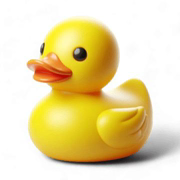
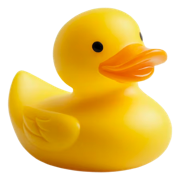
Update portfolio metadata and case copy

diff --git a/src/views/project-detail.tsx b/src/views/project-detail.tsx
@@ -1189,8 +1189,8 @@ export default function ProjectDetail() {
                               : "2GO is a deals platform for restaurants and cafes in Uzbekistan. As the only designer on the team, working closely with the product manager, I designed three products from scratch in two months: a mobile app for users, a B2B dashboard for restaurants, and an admin panel for moderation. One promo-code flow runs through all three interfaces: the user gets a code, the waiter redeems it at the cashier, the restaurant sees the stats, and the admin moderates the platform. There are no direct analogs on the market."
                             : project.id === 7
                             ? language === "ru"
-                              ? "Количественное UX-исследование главной страницы крупного travel-сервиса в рамках редизайна. ~200 участников, 5+ сценариев, сравнение мобайл/десктоп. Выявила критические проблемы с длиной страницы, навигацией и идентификацией бренда. Сформировала приоритизированный бэклог из 20+ рекомендаций."
-                              : "Quantitative UX research for the homepage of a major travel service as part of a redesign. Around 200 participants, 5+ scenarios, and a mobile vs desktop comparison. I identified critical issues with page length, navigation, and brand recognition, then built a prioritized backlog of 20+ recommendations."
+                              ? "Немодерируемое UX-исследование главной страницы крупного travel-сервиса в рамках редизайна: около 200 участников, 5-second и first-click тесты, сценарии, анкетирование. Сравнила мобильную версию и десктоп, выявила, где пользователи теряют фокус, как считывают бренд и какие блоки перегружают страницу, а затем собрала приоритизированный список рекомендаций для команды."
+                              : "Unmoderated UX research for the homepage of a major travel service as part of a redesign: around 200 participants, 5-second and first-click tests, and a mobile vs desktop comparison. I identified where users lose focus, how they read the brand, and which blocks overload the page, then turned that into a prioritized recommendation list for the team."
                             : (language === "ru"
                               ? "xSwap — AMM dApp на CrossFi. За 1 месяц собрала UX/UI для Swap, Pools, Token Sale и Lock/Voting, координировала фронт, работала в связке с solidity. Сделала интерфейс, который не пугает: slippage и прозрачный Route в swap, понятные liquidity-пулы с multi-step подсказками, Token Sale с Profit Estimator и видеогайдами, плюс сложный Lock/Voting — с продуманными корнер-кейсами и состояниями транзакций."
                               : "xSwap is an AMM dApp on CrossFi. In one month, I put together the UX/UI for Swap, Pools, Token Sale, and Lock/Voting, coordinated with frontend, and worked closely with Solidity. The result is an interface that does not scare people off: slippage and a transparent Route in Swap, understandable liquidity pools with multi-step guidance, Token Sale with a Profit Estimator and video guides, plus a complex Lock/Voting flow with well-thought-out edge cases and transaction states.")
@@ -1287,7 +1287,7 @@ export default function ProjectDetail() {
                       {language === "ru" ? (
                         <>
                           <p>Проектирование начала с брифа коллег и заказчика, после выбрала форматы: 5-second test для оценки узнаваемости бренда, first-click test для проверки находимости ключевых блоков, сценарии воспроизводили реальные пользовательские задачи + анкетирование для контекста. Подобрала аудиторию, близкую к целевым пользователям сервиса, с релевантным опытом в travel-категории (гад блесс точечные настройки аудитории в PathWay).</p>
-                          <p>Исследование проходило в два этапа. Первый помог увидеть общую картину: как пользователи ориентируются на главной, какие сценарии проходят уверенно, а где начинают теряться. Второй этап был более точечным: я сравнивала мобилку и десктоп и проверяла, как пользователи воспринимают первый экран, навигацию и точки входа в ключевые сценарии.</p>
+                          <p>Исследование проходило в два этапа. Первый помог увидеть общую картину: как пользователи ориентируются на главной, какие сценарии проходят уверенно, а какие уже не очень уверенно. Второй этап был более точечным: я сравнивала мобилку и десктоп и проверяла, как пользователи воспринимают первый экран, навигацию и точки входа в ключевые сценарии.</p>
                           <p>Я анализировала и цифры (скорость, время, оценки), и качественные данные – открытые ответы и записи экранов. Записи экранов изучать трудозатратно, но полезно – так я увидела, например, что ближе к концу страницы пользователи начинают кликать хаотично, лишь бы скорее найти нужный блок.</p>
                         </>
                       ) : (
@@ -1454,6 +1454,15 @@ export default function ProjectDetail() {
                     className="w-full h-auto object-cover"
                   />
                 </div>
+              </div>
+            )}
+
+            {project.id === 14 && project.contextTitle && project.contextText && (
+              <div className="max-w-[calc(56rem-80px)] mb-12">
+                <h2 className="text-2xl font-medium mb-6">{project.contextTitle}</h2>
+                <p className="text-lg text-gray-600 leading-relaxed whitespace-pre-line">
+                  {project.contextText}
+                </p>
               </div>
             )}
 
@@ -1654,7 +1663,7 @@ export default function ProjectDetail() {
                       {language === "ru" ? "Вот такой" : "Here is the"}
                     </a>{" "}
                     {language === "ru"
-                      ? "маркетинговый сайт получился. Я сделала его с нуля и масштабировала (сейчас делаем уже третью версию – компания растет!). Придумала как визуализировать абстрактные кросс-чейн процессы и объяснить аудитории сложную логику продуктов. Спроектировала интерактивный виджет для страницы Экосистема – единый компонент, который объединяет сотни комбинаций токенов, сетей и роутов в пару кликов."
+                      ? "маркетинговый сайт получился. Я сделала его с нуля и масштабировала (сейчас делаем уже третью версию – компания растет!). Придумала, как визуализировать абстрактные кросс-чейн процессы и объяснить аудитории сложную логику продуктов. Спроектировала интерактивный виджет для страницы Экосистема – единый компонент, который объединяет сотни комбинаций токенов, сетей и роутов в пару кликов."
                       : "marketing site we ended up with. I built it from scratch and scaled it up over time; we are already working on version three because the company keeps growing. I figured out how to visualize abstract cross-chain processes and explain tricky product logic to the audience. I also designed the interactive widget for the Ecosystem page, a single component that brings hundreds of token, chain, and route combinations down to a couple of clicks."}
                   </>
                 </p>
@@ -2288,7 +2297,7 @@ export default function ProjectDetail() {
                 <h2 className="text-2xl font-medium mt-12 mb-6">{language === "ru" ? "Итог" : "Outcome"}</h2>
                 <p className="text-lg text-gray-600 leading-relaxed mb-8">
                   {language === "ru"
-                    ? "Проект запущен в продакшн – это был сложный и интересный кейс: предметная область, которую пришлось изучить с нуля, госзаказчиковый фактор, технические и законодательные ограничения, смена руководства компании прямо посреди процесса разработки. Ниже прикрепила еще макеты, чтобы вы, как и я, не смогли забыть этот проект."
+                    ? "Проект запущен в продакшн – это был сложный и интересный кейс: предметная область, которую пришлось изучить с нуля, госзаказчиковый фактор, технические и законодательные ограничения, смена руководства компании прямо посреди процесса разработки. Сейчас система работает и обслуживает реальный оборот зелёных сертификатов в России. Ниже прикрепила еще макеты, чтобы вы, как и я, не смогли забыть этот проект."
                     : "The project is live in production. It was a complex and genuinely interesting case: a domain I had to learn from scratch, public-sector constraints, technical and legal limitations, and even a leadership change in the company in the middle of development. I also attached extra mockups below so this project stays memorable, for you and for me."
                   }
                 </p>
@@ -2927,7 +2936,7 @@ export default function ProjectDetail() {
                             <div className="flex-shrink-0 w-[calc((100vw-100%)/2)]" />
                           </div>
                         </div>
-                        <p className="text-sm text-gray-400 mt-6 text-center italic">{project.content?.conclusion?.vietnamCaption}</p>
+                        <p className="text-sm text-gray-400 mt-6 text-center italic whitespace-pre-line">{project.content?.conclusion?.vietnamCaption}</p>
                       </div>
                     </div>
                   </div>

diff --git a/src/lib/translations.ts b/src/lib/translations.ts
@@ -158,6 +158,8 @@ export type ProjectTranslation = {
   description: string;
   cardDescription?: string;
   caseDescription?: string;
+  contextTitle?: string;
+  contextText?: string;
   content?: any;
 };
 
@@ -181,7 +183,9 @@ export const projectTranslations: Record<"en" | "ru", ProjectTranslation[]> = {
       title: "Glacis Labs site",
       description: "Corporate website for the Glacis Labs ecosystem. A multi-page site with complex widgets and diagrams showing how the products work.",
       cardDescription: "Corporate website for Glacis Labs. A multi-page site with complex diagrams and widgets.",
-      caseDescription: "Glacis Labs builds Web3 products for developers. It is infrastructure you do not really see: routers, protocols, and liquidity pools working behind every cross-chain operation. Explaining how it all works is hard, but that is exactly the job of both the marketing site and me."
+      caseDescription: "Glacis Labs builds Web3 products for developers. It is infrastructure you do not really see: routers, protocols, and liquidity pools working behind every cross-chain operation. Explaining how it all works is hard, but that is exactly the job of both the marketing site and me.",
+      contextTitle: "A bit more context",
+      contextText: "The site's audience is developers and potential partners who need to quickly understand how everything works and feel motivated to integrate. The site has to work both as a marketing tool and as a technical entry point into the ecosystem."
     },
     {
       id: 2,
@@ -324,7 +328,7 @@ We also shipped a Vietnamese version and launched for the Vietnamese market (and
       category: "DEFI",
       role: "Senior Designer",
       title: "Zero Delta",
-      description: "Presentation of a new Glacis product."
+      description: "Presentation of the new Glacis Labs product."
     },
     {
       id: 12,
@@ -361,7 +365,9 @@ We also shipped a Vietnamese version and launched for the Vietnamese market (and
       title: "Glacis Labs site",
       description: "Корпоративный сайт экосистемы Glacis Labs. Многостраничник со сложными виджетами и схемами работы продуктов.",
       cardDescription: "Корпоративный сайт Glacis Labs. Многостраничник со сложными схемами и виджетами.",
-      caseDescription: "Glacis Labs создают Web3-продукты для разработчиков. Это инфраструктура, которую не видно: роутеры, протоколы, пулы ликвидности работают под капотом каждой кросс-чейн операции. Объяснить как все устроено довольно трудно, но именно в этом моя (и маркетингового сайта) задача."
+      caseDescription: "Glacis Labs создают Web3-продукты для разработчиков. Это инфраструктура, которую не видно: роутеры, протоколы, пулы ликвидности работают под капотом каждой кросс-чейн операции. Объяснить как все устроено довольно трудно, но именно в этом моя (и маркетингового сайта) задача.",
+      contextTitle: "Еще немного контекста",
+      contextText: "Аудитория сайта – разработчики и потенциальные партнёры, которым нужно быстро понять, как всё устроено, и захотеть интегрироваться. Сайт должен работать и как маркетинговый инструмент, и как техническая точка входа в экосистему."
     },
     {
       id: 2,
@@ -421,7 +427,7 @@ Lock + Voting
           title: "Итог",
           text: `За месяц я собрала дизайн продукта, отдала фронту и проконтролировала реализацию. xSwap получился чистым и понятным, с некоторыми наворотами для DeFi-дегенов и многочисленными ориентирами для новичков.
 Мы также реализовали вьетнамскую версию и запустили на вьетнамский рынок (и для нее я отдельно нарисовала дизайн)).`,
-          vietnamCaption: "Вьетнамская версия (зачем она в фигме, спросите вы, – все поедет, давай лучше отрисуем – ответят заказчик и фронты) и некоторые элементы библиотеки"
+          vietnamCaption: "Вьетнамская версия (зачем она в фигме, спросите вы, – все поедет, давай лучше отрисуем – ответят заказчик и фронты)\nи некоторые элементы библиотеки"
         }
       }
     },
@@ -464,6 +470,7 @@ Lock + Voting
       category: "TRAVEL",
       role: "UX Researcher",
       title: "UX-исследование\nдля travel-сервиса",
+      cardDescription: "Немодерируемое UX-исследование на ~200 респондентах в рамках редизайна сайта.",
       description: "UX-исследование главной страницы крупного travel-сервиса. Несколько этапов немодерируемого тестирования, ~200 участников, сравнение мобильной версии сайта и десктопа. Я спроектировала тесты, проанализировала данные и собрала рекомендации для команды, которая работала над редизайном."
     },
     {
@@ -497,7 +504,7 @@ Lock + Voting
       category: "DEFI",
       role: "Senior Designer",
       title: "Zero Delta",
-      description: "Презентация нового продукта Glacis."
+      description: "Презентация нового продукта Glacis Labs."
     },
     {
       id: 12,

diff --git a/src/lib/metadata.ts b/src/lib/metadata.ts
@@ -5,7 +5,7 @@ import zeroDeltaImg from "@/assets/zero_delta_main.webp";
 import xSwapImg from "@/assets/xswap_main.webp";
 import skiziCoverImg from "@/assets/skizi_cover_new.webp";
 import twoGoCoverImg from "@/assets/2go_cover.webp";
-import uxResearchImg from "@/assets/ux_research_cover.webp";
+import uxResearchImg from "@/assets/UXResearch_cover.jpg";
 import dickbuttsImg from "@/assets/dickbutts_cover_v2.webp";
 import zeroDeltaCoverImg from "@/assets/zero_delta_cover.webp";
 import zoodaoCoverImg from "@/assets/zoodao_cover_v3.webp";
@@ -44,8 +44,8 @@ function resolveSiteUrl() {
 
   if (process.env.NODE_ENV === "development") return "http://localhost:3000";
 
-  // Avoid protected Vercel deployment URLs in OG tags; use public production alias.
-  const raw = "https://portfolio-green-mu-48.vercel.app";
+  // Avoid deployment URLs in OG tags; use the public production domain.
+  const raw = "https://annauskova.art";
   const withProtocol =
     raw.startsWith("http://") || raw.startsWith("https://") ? raw : `https://${raw}`;
   return withProtocol.replace(/\/+$/, "");
@@ -117,7 +117,7 @@ export function getProjectMetadata(projectId: number): Metadata {
 
   return buildPageMetadata({
     title: `${project.title} | ${BRAND_TITLE}`,
-    description: project.description,
+    description: project.cardDescription ?? project.description,
     path: `/projects/${projectId}`,
     image,
   });

diff --git a/src/app/layout.tsx b/src/app/layout.tsx
@@ -5,6 +5,13 @@ import "./globals.css";
 export const metadata: Metadata = {
   ...defaultSiteMetadata,
   metadataBase,
+  icons: {
+    icon: [
+      { url: "/favicon.ico", sizes: "any" },
+      { url: "/favicon.png", type: "image/png", sizes: "32x32" },
+    ],
+    apple: "/apple-touch-icon.png",
+  },
 };
 
 export default function RootLayout({
